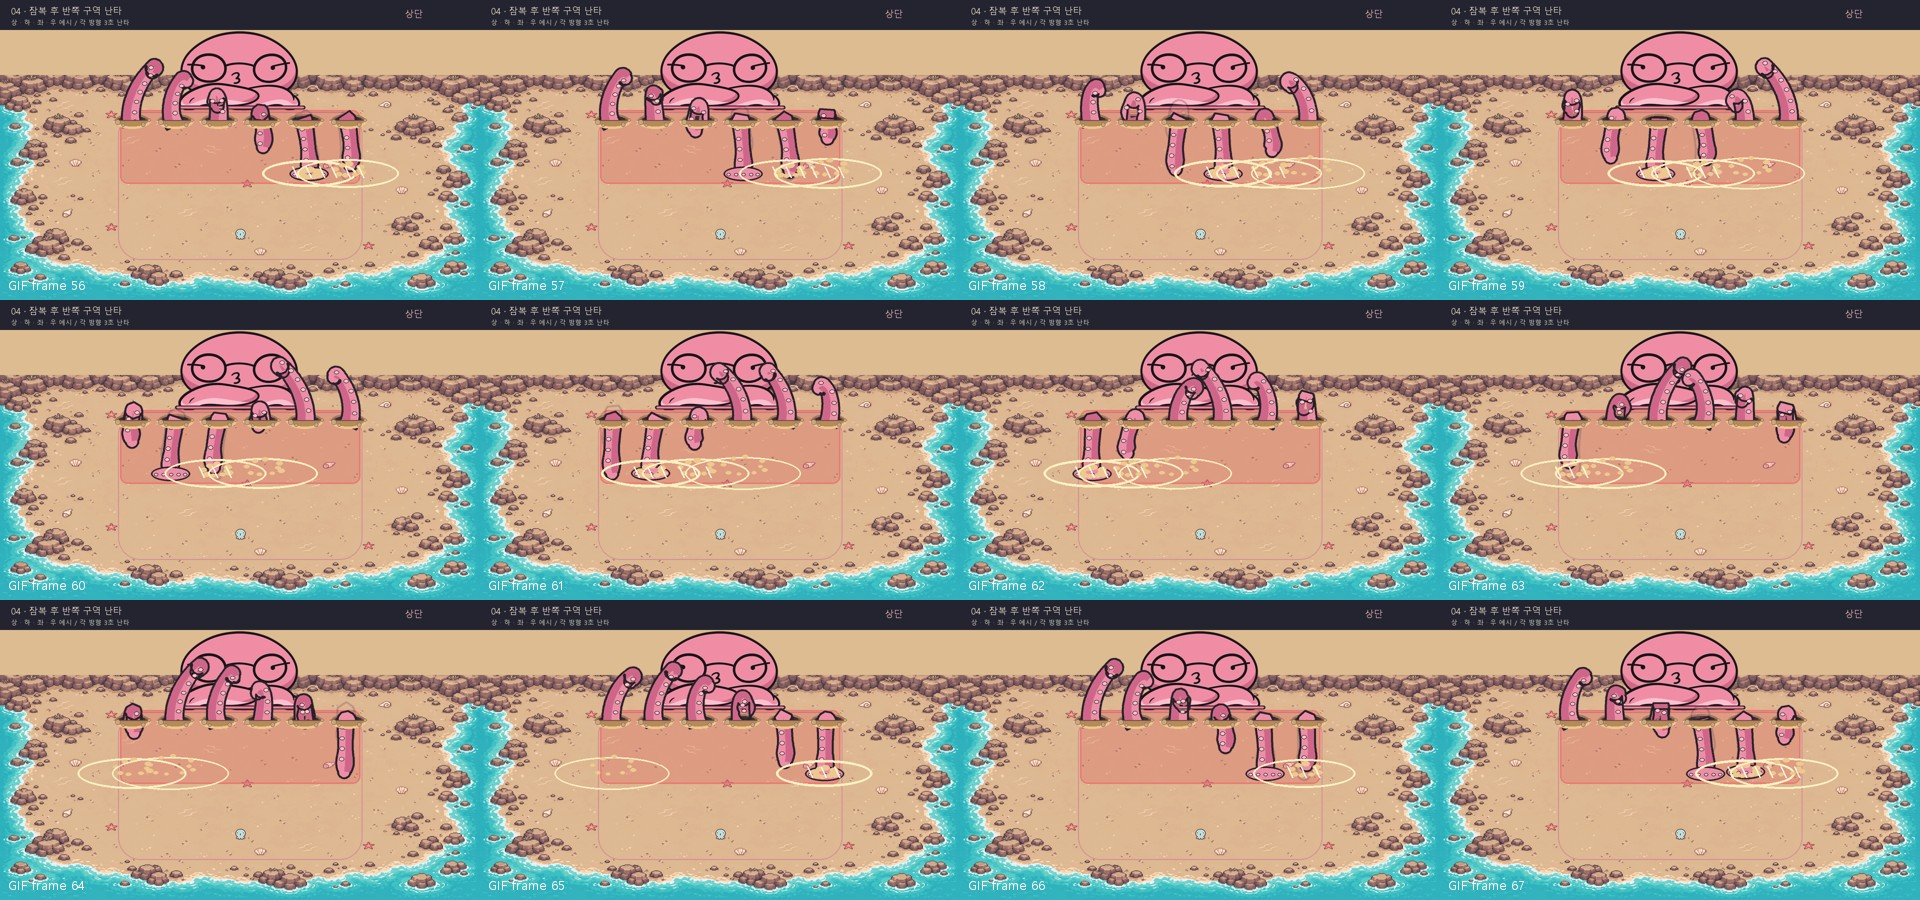
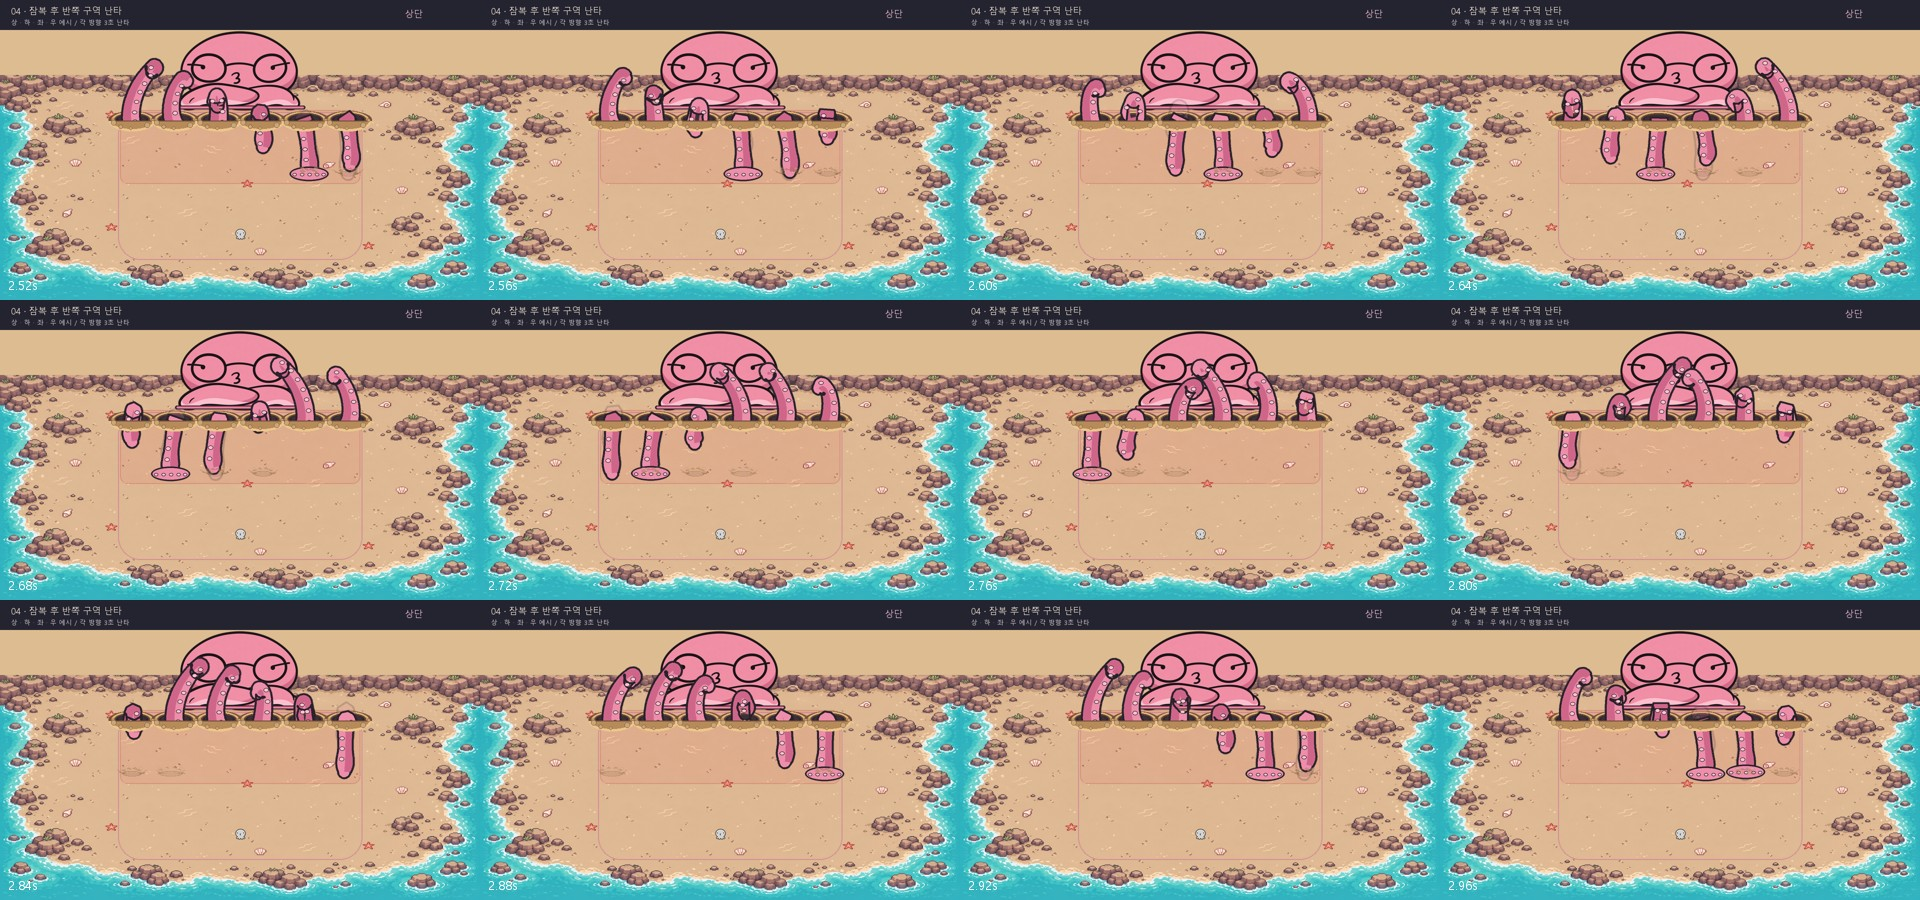
보스: 타격 임팩트와 흙 튐 자연화

diff --git a/tools/render_octopus_boss.py b/tools/render_octopus_boss.py
@@ -145,22 +145,50 @@ def hole(im,r,front=False,activity=0):
             xx=x+math.cos(a)*rr; yy=y+math.sin(a)*rr*.35-activity*14
             ell(d,(xx-5,yy-3,xx+5,yy+3),'#e9c899')
 
-def impact(im,pos,age,wide=False):
-    if not 0<=age<.40:return
-    x,y=pos; u=age/.4; d=ImageDraw.Draw(im); rx=(94 if wide=='barrage' else 64 if wide else 24)+u*(58 if wide=='barrage' else 43)
-    d.ellipse((x-rx,y-rx*.28,x+rx,y+rx*.28),outline='#fff0c2',width=max(1,round(5*(1-u))))
-    for j in range(9):
-        a=j*2.399; r=(15+u*55)*(1+j%3*.15); xx=x+math.cos(a)*r; yy=y+math.sin(a)*r*.45-math.sin(u*math.pi)*16
-        sz=(1-u)*(7+j%3)
-        ell(d,(xx-sz,yy-sz*.6,xx+sz,yy+sz*.6),'#edc990')
+def impact(im,pos,age,wide=False,under=False):
+    """Press the field at contact, then throw earth around the planted tip."""
+    if not 0<=age<.42:return
+    x,y=pos;u=age/.42;ease=smooth(u);fade=1-u
+    scale=1.0 if wide=='barrage' else .64 if wide else .42
+    pad=52;ox=round(x-pad);oy=round(y-pad)
+    layer=Image.new('RGBA',(pad*2,pad*2));d=ImageDraw.Draw(layer)
+    x-=ox;y-=oy
+    # Keep each footprint smaller than the gap between lanes, so six impacts
+    # read as separate contacts rather than one continuous stripe.
+    rx=(14+ease*28)*scale;ry=max(5,rx*.19)
+    if under:
+        # A shallow depression and short radial splits sit underneath the arm.
+        d.ellipse((x-rx,y-ry,x+rx,y+ry),fill=(83,57,47,round(24*fade)),outline=(126,85,57,round(120*fade)),width=2)
+        d.arc((x-rx*.72,y-ry*.7,x+rx*.72,y+ry*.8),8,172,fill=(229,190,132,round(110*fade)),width=2)
+        d.ellipse((x-14,y-4,x+14,y+4),fill=(67,47,43,round(34*fade)))
+        for side in (-1,1):
+            d.line((x+side*14,y,x+side*(22+fade*4),y-3),fill=(94,65,51,round(130*fade)),width=2)
+            d.line((x+side*22,y-3,x+side*(26+fade*5),y-8),fill=(112,77,56,round(115*fade)),width=1)
+        im.alpha_composite(layer,(ox,oy));return
+    # The sand plume starts beside the sucker tip so its silhouette stays clear.
+    for side in (-1,1):
+        spread=(14+ease*24)*scale
+        for j in range(3):
+            drift=spread*(.55+j*.22)
+            lift=(3+j*4+ease*12)*scale
+            xx=x+side*drift; yy=y-lift+math.sin(u*math.pi)*5
+            size=(2+j%2+fade*1.5)*scale
+            a=round((125-j*16)*fade)
+            d.ellipse((xx-size*1.25,yy-size*.65,xx+size*1.25,yy+size*.65),fill=(224,190,143,a),outline=(151,112,76,round(a*.8)),width=1)
+    for j in range(6):
+        a=math.pi+(j/5)*math.pi
+        distance=(14+ease*27)*(1+(j%2)*.12)*scale
+        xx=x+math.cos(a)*distance;yy=y+math.sin(a)*(8+ease*13)*scale
+        size=max(1,(2+fade*(2+j%2))*scale)
+        alpha=round(145*fade)
+        d.polygon([(xx-size,yy),(xx,yy-size*.7),(xx+size,yy+size*.2)],fill=(184,139,91,alpha),outline=(137,97,65,alpha))
         if wide=='rock' and j%2==0:
-            d.polygon([(xx-3,yy+2),(xx+2,yy-4),(xx+5,yy+3)],fill='#a28c89',outline=INK)
-    if u<.24:
-        for dx in (-27,0,27): d.line((x+dx-6,y-14,x+dx+4,y+8),fill='#fff8d9',width=3)
+            d.polygon([(xx-3,yy+2),(xx+2,yy-4),(xx+5,yy+3)],fill=(162,140,137,alpha),outline=(41,33,42,alpha))
+    im.alpha_composite(layer,(ox,oy))
 
 def warning(im,box,phase):
     ov=Image.new('RGBA',im.size); d=ImageDraw.Draw(ov)
-    d.rounded_rectangle(box,radius=15,fill=(228,66,81,round(30+30*phase)),outline=(241,95,100,180),width=3)
+    d.rounded_rectangle(box,radius=15,fill=(228,66,81,round(12+12*phase)),outline=(206,102,95,112),width=2)
     im.alpha_composite(ov)
 
 def rock(im,pos,r=23,angle=0):
@@ -304,6 +332,8 @@ class Renderer:
                     ps[i]=ground_pose(r,s,180*(1-smooth((u-5.6)/.6)));visibility[i]=.5;dust[i]=math.sin(math.pi*(u-5.6)/.6)
             player=[(480,465),(480,280),(640,420),(320,420)][cycle]
         for i,r in enumerate(roots):hole(im,r,False,dust[i])
+        # Ground compression is behind the limbs; flying soil is added after.
+        for pos,age,wide in effects:impact(im,pos,age,wide,under=True)
         if trails:
             trail=Image.new('RGBA',im.size)
             for p in trails:arm(trail,p)

diff --git a/docs/검증/giant-octopus-boss/README.md b/docs/검증/giant-octopus-boss/README.md
@@ -56,7 +56,7 @@ rock-held.png, rock.png, ground-back.png, ground-front.png.
 
 - 실제 GIF의 접촉·투척 연속 프레임을 디코딩해서 확인했다. 확대 팔의 링 외곽선과 GIF 팔레트를 수정했다.
 - 30회 이벤트는 팔마다 5개씩, 카운터는 접촉 이후 증가한다. 여섯 뿌리는 공격 동안 고정된다.
-- 반쪽 난타는 여섯 촉수의 뿌리를 고정하고 각 팔을 수직으로 내려친다. 넓은 끝 타격, 모래 분출·겹치는 충격파·짧은 잔상으로 중앙을 포함한 지정 구역을 덮는다. 팔별 반복 간격은 0.40초다.
+- 반쪽 난타는 여섯 촉수의 뿌리를 고정하고 각 팔을 수직으로 내려친다. 끝이 실제로 닿는 자리에 얕은 눌림과 짧은 균열을 만들고, 작은 모래·자갈이 팔 끝 양옆으로 튄다. 타격 자국은 팔 사이에서 서로 이어지지 않게 해 각 접촉과 촉수 빨판이 계속 읽힌다. 중앙을 포함한 지정 구역을 팔 실루엣으로 덮으며 팔별 반복 간격은 0.40초다.
 - 지면 출입은 움푹한 어두운 구멍, 밝은 모래 경사, 앞쪽 흙턱·자갈, 출입 먼지를 구멍 뒤→팔→앞턱 순서로 겹쳤다. 05-detail.gif에서 지면 아래 이동과 출현을 확대해 확인했다.
 - 지정 구역으로의 뿌리 이동은 완전히 지하에 가려진 뒤에만 이루어진다. 원래 위치 복귀도 같은 규칙이다.
 - 원본 필드는 픽셀 아트, 보스는 요청한 굵은 선의 분홍 만화체다. GIF는 256색이고 촉수는 절차적 드로잉이므로 참고 영상의 손작화 품질과 같다고 보장하지 않는다.

diff --git a/docs/구조/monsters/NOTES.md b/docs/구조/monsters/NOTES.md
@@ -1,6 +1,6 @@
 # 최근 변경
 
-- 2026-10-19: 거대 문어 반쪽 난타를 뿌리 고정형 수직 내려치기로 조정해 지정 구역 중앙까지 촉수 실루엣이 닿게 했다. 구덩이의 안쪽 어둠·모래 경사·앞턱과 출입 먼지를 강화했다. Unity 적용 없이 독립 GIF/에셋만 갱신.
+- 2026-10-19: 거대 문어 반쪽 난타를 뿌리 고정형 수직 내려치기로 조정하고, 접촉점마다 눌림·짧은 균열·작은 흙 튐을 분리해 촉수 빨판과 타격 실루엣이 묻히지 않게 했다. 구덩이 안쪽 어둠·모래 경사·앞턱도 강화했다. Unity 적용 없이 독립 GIF/에셋만 갱신.
 
 - 2026-10-19: `docs/검증/giant-octopus-boss`에 스케치 기반 독립 보스 GIF 5개, 필드 합성 PNG, 투명 에셋·연결 시트·피벗 명세 추가. `tools/render_octopus_boss.py`로 Unity 없이 재제작하며 게임 코드에는 적용하지 않았다.
 
